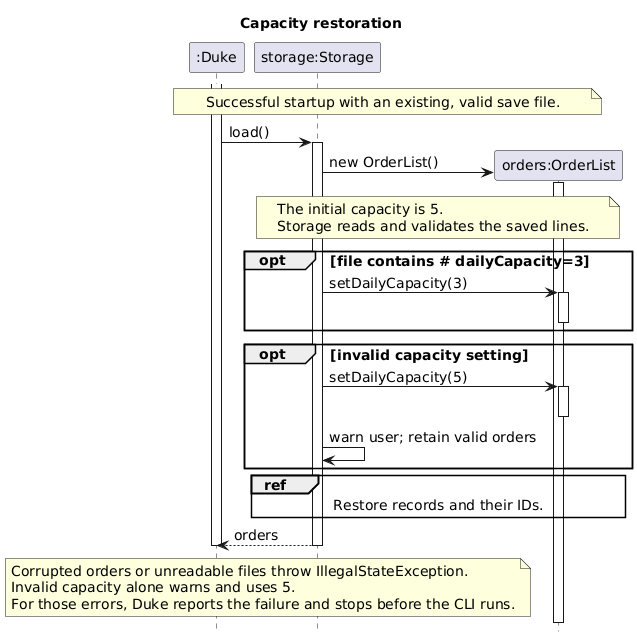
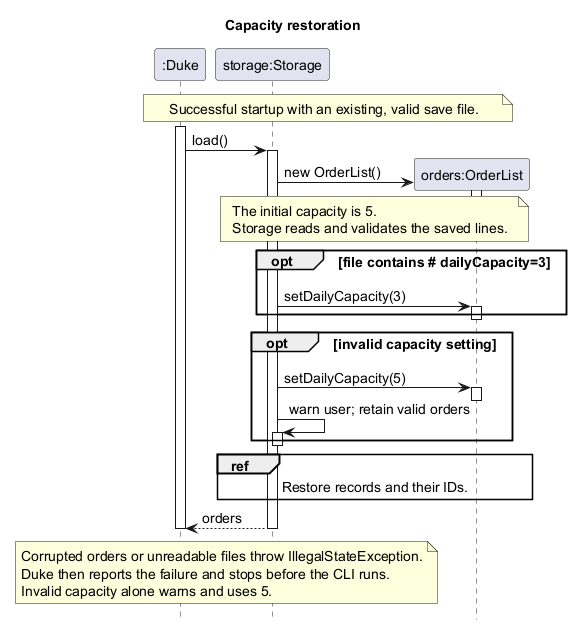
Restore capacity saving
Restore the save callback lost during integration, test capacity-only CLI restarts, and remove obsolete capacity documentation. Keep the existing capacity-persistence attribution.

Changed region(s): [[0.0, 0.0302, 1.0, 0.9968]]

diff --git a/src/test/java/seedu/duke/storage/StorageSafetyTest.java b/src/test/java/seedu/duke/storage/StorageSafetyTest.java
@@ -1,5 +1,6 @@
 package seedu.duke.storage;
 
+import static org.junit.jupiter.api.Assertions.assertArrayEquals;
 import static org.junit.jupiter.api.Assertions.assertEquals;
 import static org.junit.jupiter.api.Assertions.assertFalse;
 import static org.junit.jupiter.api.Assertions.assertThrows;
@@ -12,6 +13,7 @@ import java.io.PrintStream;
 import java.nio.charset.StandardCharsets;
 import java.nio.file.Files;
 import java.nio.file.Path;
+import java.util.List;
 import org.junit.jupiter.api.Test;
 import org.junit.jupiter.api.io.TempDir;
 import seedu.duke.Duke;
@@ -32,6 +34,54 @@ public class StorageSafetyTest {
         orders.setDailyCapacity(12);
         assertTrue(storage.save(orders));
         assertEquals(12, storage.load().getDailyCapacity());
+    }
+
+    @Test
+    public void capacityOnly_firstRun_persistsWithoutAnyOrderChanges() {
+        Path file = tempDir.resolve("first-capacity.txt");
+
+        runSession(file, "capacity 3\nbye\n");
+
+        OrderList loaded = new Storage(file).load();
+        assertEquals(3, loaded.getDailyCapacity());
+        assertEquals(0, loaded.size());
+        assertTrue(runSession(file, "capacity\nbye\n").contains("Daily capacity is 3 orders per day."));
+    }
+
+    @Test
+    public void capacityOnly_existingOrders_persistsAndPreservesRecords() throws Exception {
+        Path file = tempDir.resolve("existing-capacity.txt");
+        OrderList original = new OrderList();
+        original.setDailyCapacity(1);
+        original.add(new Order("O001", new Customer("Alice", "91234567"), null));
+        assertTrue(new Storage(file).save(original));
+        List<String> before = Files.readAllLines(file);
+
+        runSession(file, "capacity 3\nbye\n");
+
+        List<String> after = Files.readAllLines(file);
+        assertEquals("# dailyCapacity=3", after.get(0));
+        assertEquals(before.subList(1, before.size()), after.subList(1, after.size()));
+        OrderList loaded = new Storage(file).load();
+        assertEquals(3, loaded.getDailyCapacity());
+        assertEquals(1, loaded.size());
+        assertEquals("C001", loaded.getById("O001").getCustomerId());
+        assertTrue(runSession(file, "capacity\nbye\n").contains("Daily capacity is 3 orders per day."));
+    }
+
+    @Test
+    public void capacityQueryAndInvalidCommands_doNotSave() throws Exception {
+        Path file = tempDir.resolve("read-only-capacity.txt");
+        OrderList orders = new OrderList();
+        orders.setDailyCapacity(3);
+        assertTrue(new Storage(file).save(orders));
+        // A valid legacy file without a header would gain one if a save were wrongly requested.
+        Files.writeString(file, Files.readString(file).replace("# dailyCapacity=3", ""));
+        byte[] original = Files.readAllBytes(file);
+
+        runSession(file, "capacity\ncapacity 0\ncapacity 51\ncapacity nope\ncapacity 3 extra\nbye\n");
+
+        assertArrayEquals(original, Files.readAllBytes(file));
     }
 
     @Test
@@ -227,6 +277,22 @@ public class StorageSafetyTest {
     public void setStatus_null_isRejected() {
         Order order = new Order("O001", new Customer("Alice", "91234567"), null);
         assertThrows(IllegalArgumentException.class, () -> order.setStatus(null));
+    }
+
+    /** Runs one CLI session and restores the process input and output after it ends. */
+    private String runSession(Path file, String commands) {
+        InputStream previousInput = System.in;
+        PrintStream previousOutput = System.out;
+        ByteArrayOutputStream captured = new ByteArrayOutputStream();
+        try (PrintStream output = new PrintStream(captured, true, StandardCharsets.UTF_8)) {
+            System.setIn(new ByteArrayInputStream(commands.getBytes(StandardCharsets.UTF_8)));
+            System.setOut(output);
+            new Duke(file).run();
+        } finally {
+            System.setIn(previousInput);
+            System.setOut(previousOutput);
+        }
+        return captured.toString(StandardCharsets.UTF_8);
     }
 
 }

diff --git a/src/main/java/seedu/duke/BakerCli.java b/src/main/java/seedu/duke/BakerCli.java
@@ -61,7 +61,13 @@ public class BakerCli {
                     System.out.println(new FindCommand(Parser.parseFind(input)).execute(orders));
                     break;
                 case "capacity":
-                    System.out.println(new CapacityCommand(Parser.parseCapacity(input)).execute(orders));
+                    //@@author WillChin484848
+                    Integer newCapacity = Parser.parseCapacity(input);
+                    System.out.println(new CapacityCommand(newCapacity).execute(orders));
+                    if (newCapacity != null) {
+                        afterChange.run();
+                    }
+                    //@@author Kaishhhh
                     break;
                 //@@author HammerHead-os
                 case "view":

diff --git a/docs/DeveloperGuide.md b/docs/DeveloperGuide.md
@@ -540,34 +540,6 @@ Sources: [restoration](diagrams/CapacityRestoreSequence.puml) and
 documentation consistent with the storage implementation.
 <!-- @@author -->
 
-<!-- @@author Eethanzyj -->
-#### Capacity persistence: pending storage integration
-
-The following diagrams describe [PR #42](https://github.com/AY2627S1-CS2113-W12-1/tp/pull/42),
-which is pending integration. They do not describe the current master implementation.
-After that PR is merged, the current limitation and proposal above must be replaced
-with the implemented behavior below.
-
-![Capacity restoration sequence](diagrams/CapacityRestoreSequence.png)
-
-`Storage.load()` creates an `OrderList` with the default capacity of 5. A valid
-`# dailyCapacity=NUMBER` line restores the saved value through `setDailyCapacity`.
-Older files without this header retain the default. Invalid records, invalid capacity
-settings or unreadable data stop startup before commands can modify the records.
-
-![Capacity saving sequence](diagrams/CapacitySaveSequence.png)
-
-After a successful `capacity NUMBER`, `BakerCli` runs the same save callback used
-for record changes. `Storage.save()` writes the capacity header and records to a
-temporary file before replacing the save file. Bare `capacity` and invalid commands
-do not request saving. The callback reports a save failure and keeps the changed
-capacity for the current session only.
-
-Sources: [restoration](diagrams/CapacityRestoreSequence.puml) and
-[saving](diagrams/CapacitySaveSequence.puml). Update these diagrams and the related
-documentation together when the storage implementation is integrated.
-<!-- @@author -->
-
 ### Customer and history features
 
 #### What they do
